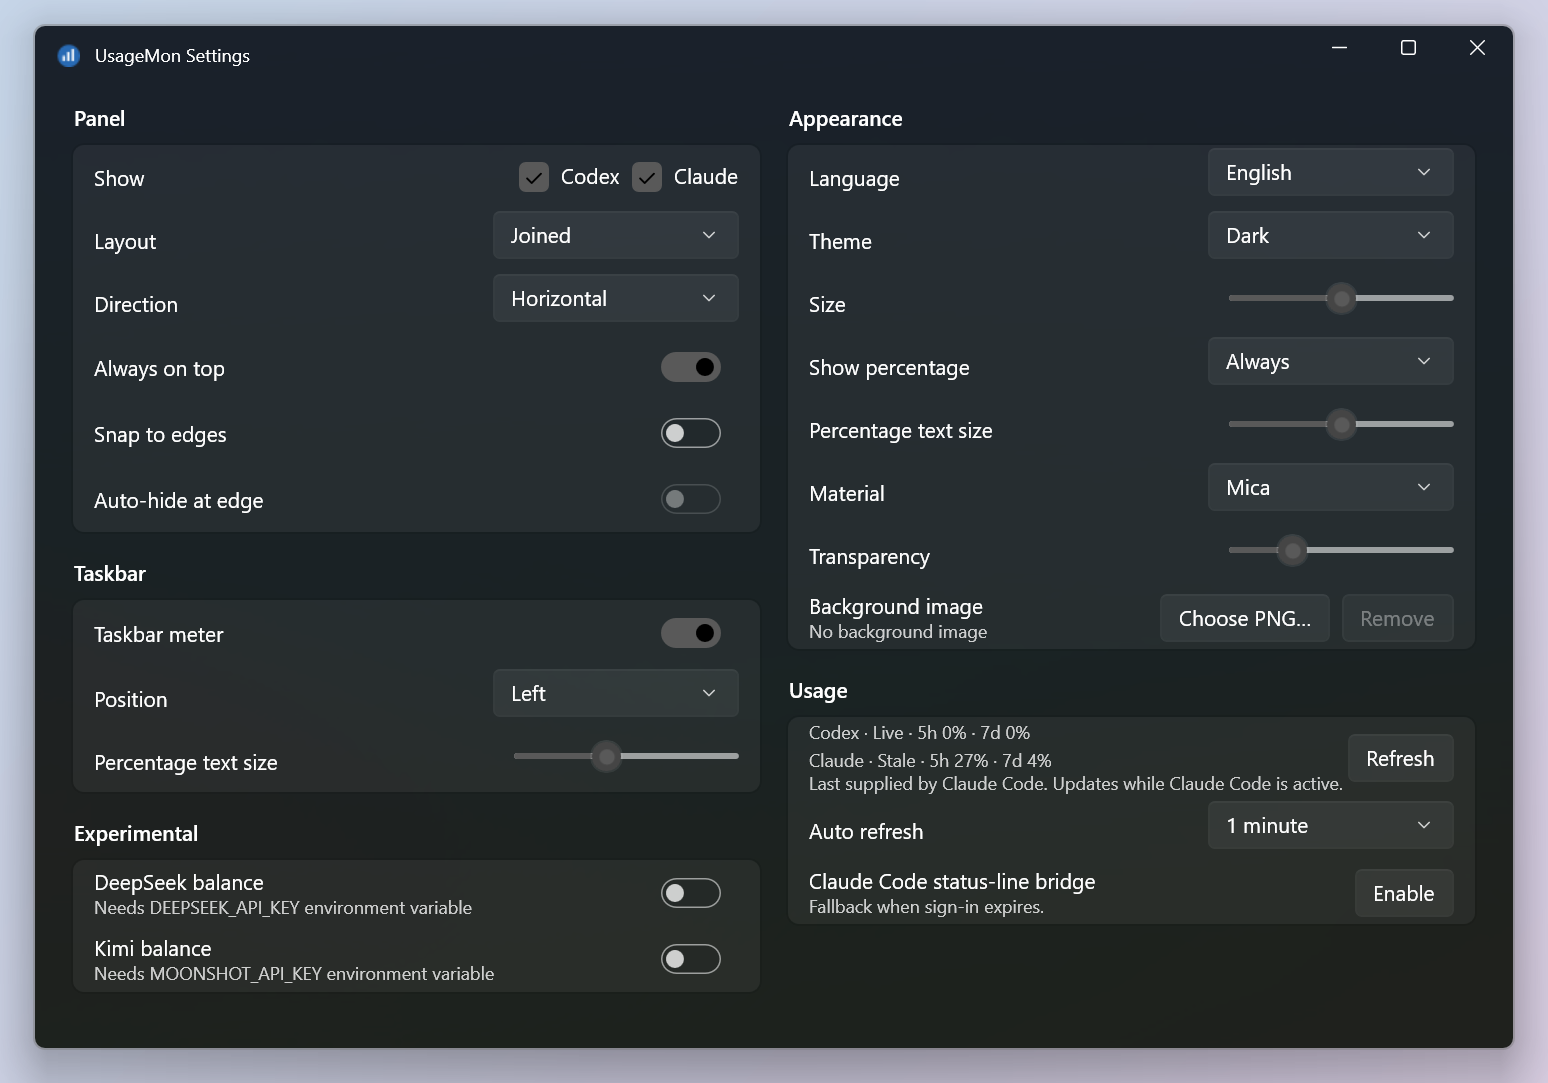
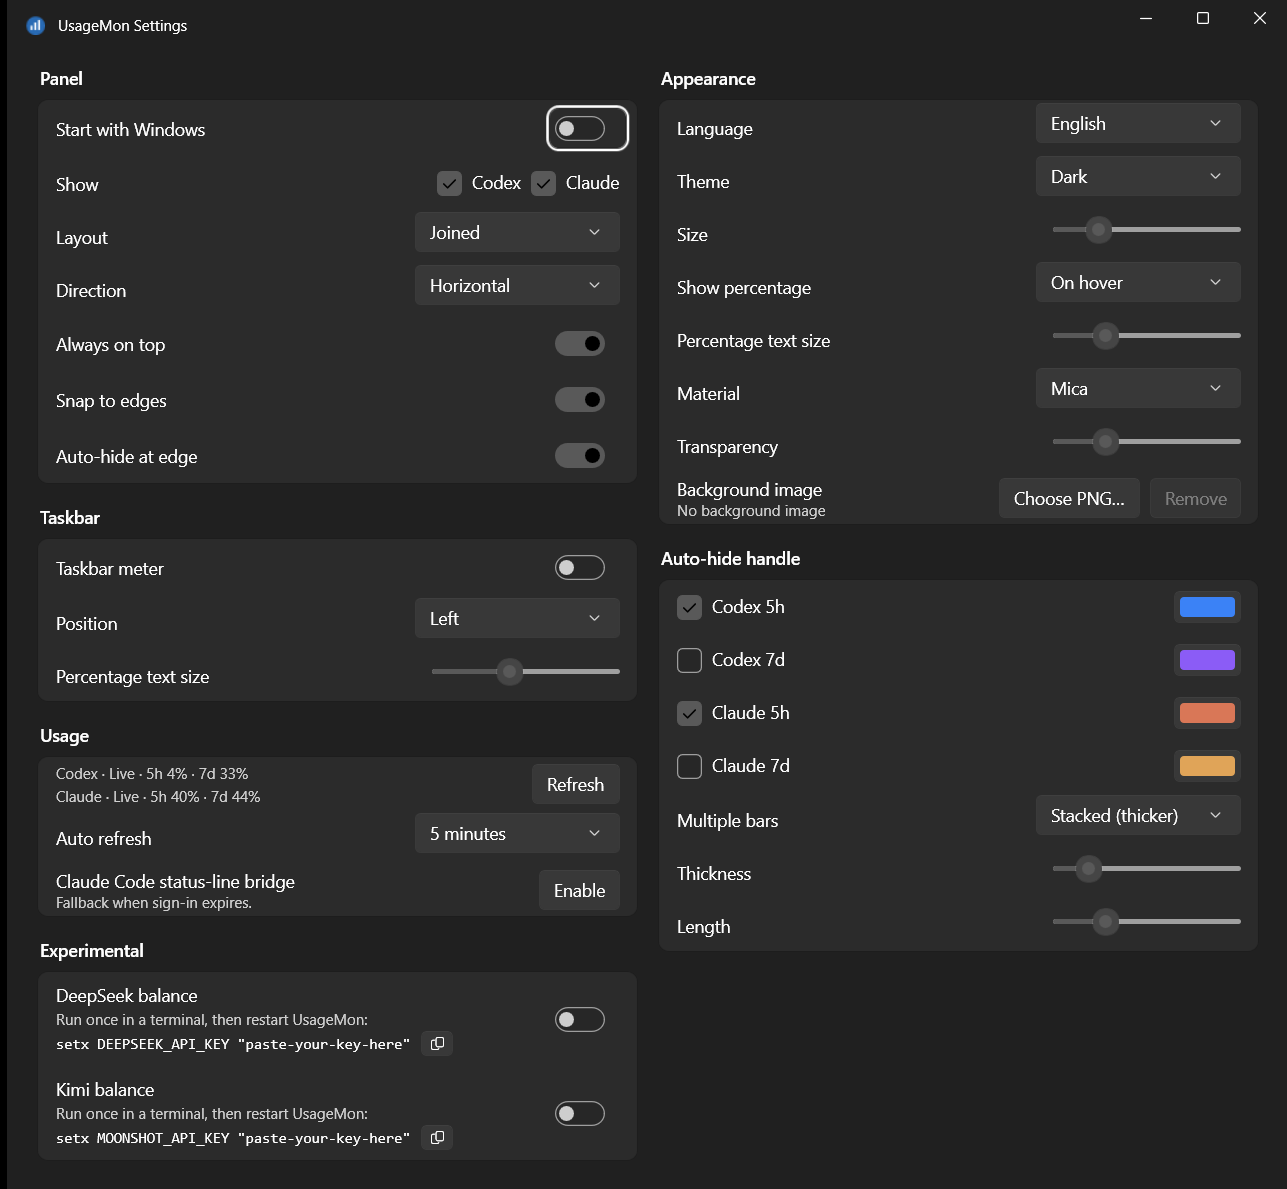
Update README settings screenshots (light and dark)

diff --git a/README.md b/README.md
@@ -38,6 +38,8 @@ The `.msixbundle` is self-signed: import `UsageMon-signing-certificate.cer` into
 
 ![Settings, light](docs/settings.png)
 
+![Settings, dark](docs/settings-dark.png)
+
 ## License
 
 [MIT](LICENSE). Third-party notices are in [THIRD_PARTY_NOTICES.md](THIRD_PARTY_NOTICES.md).
